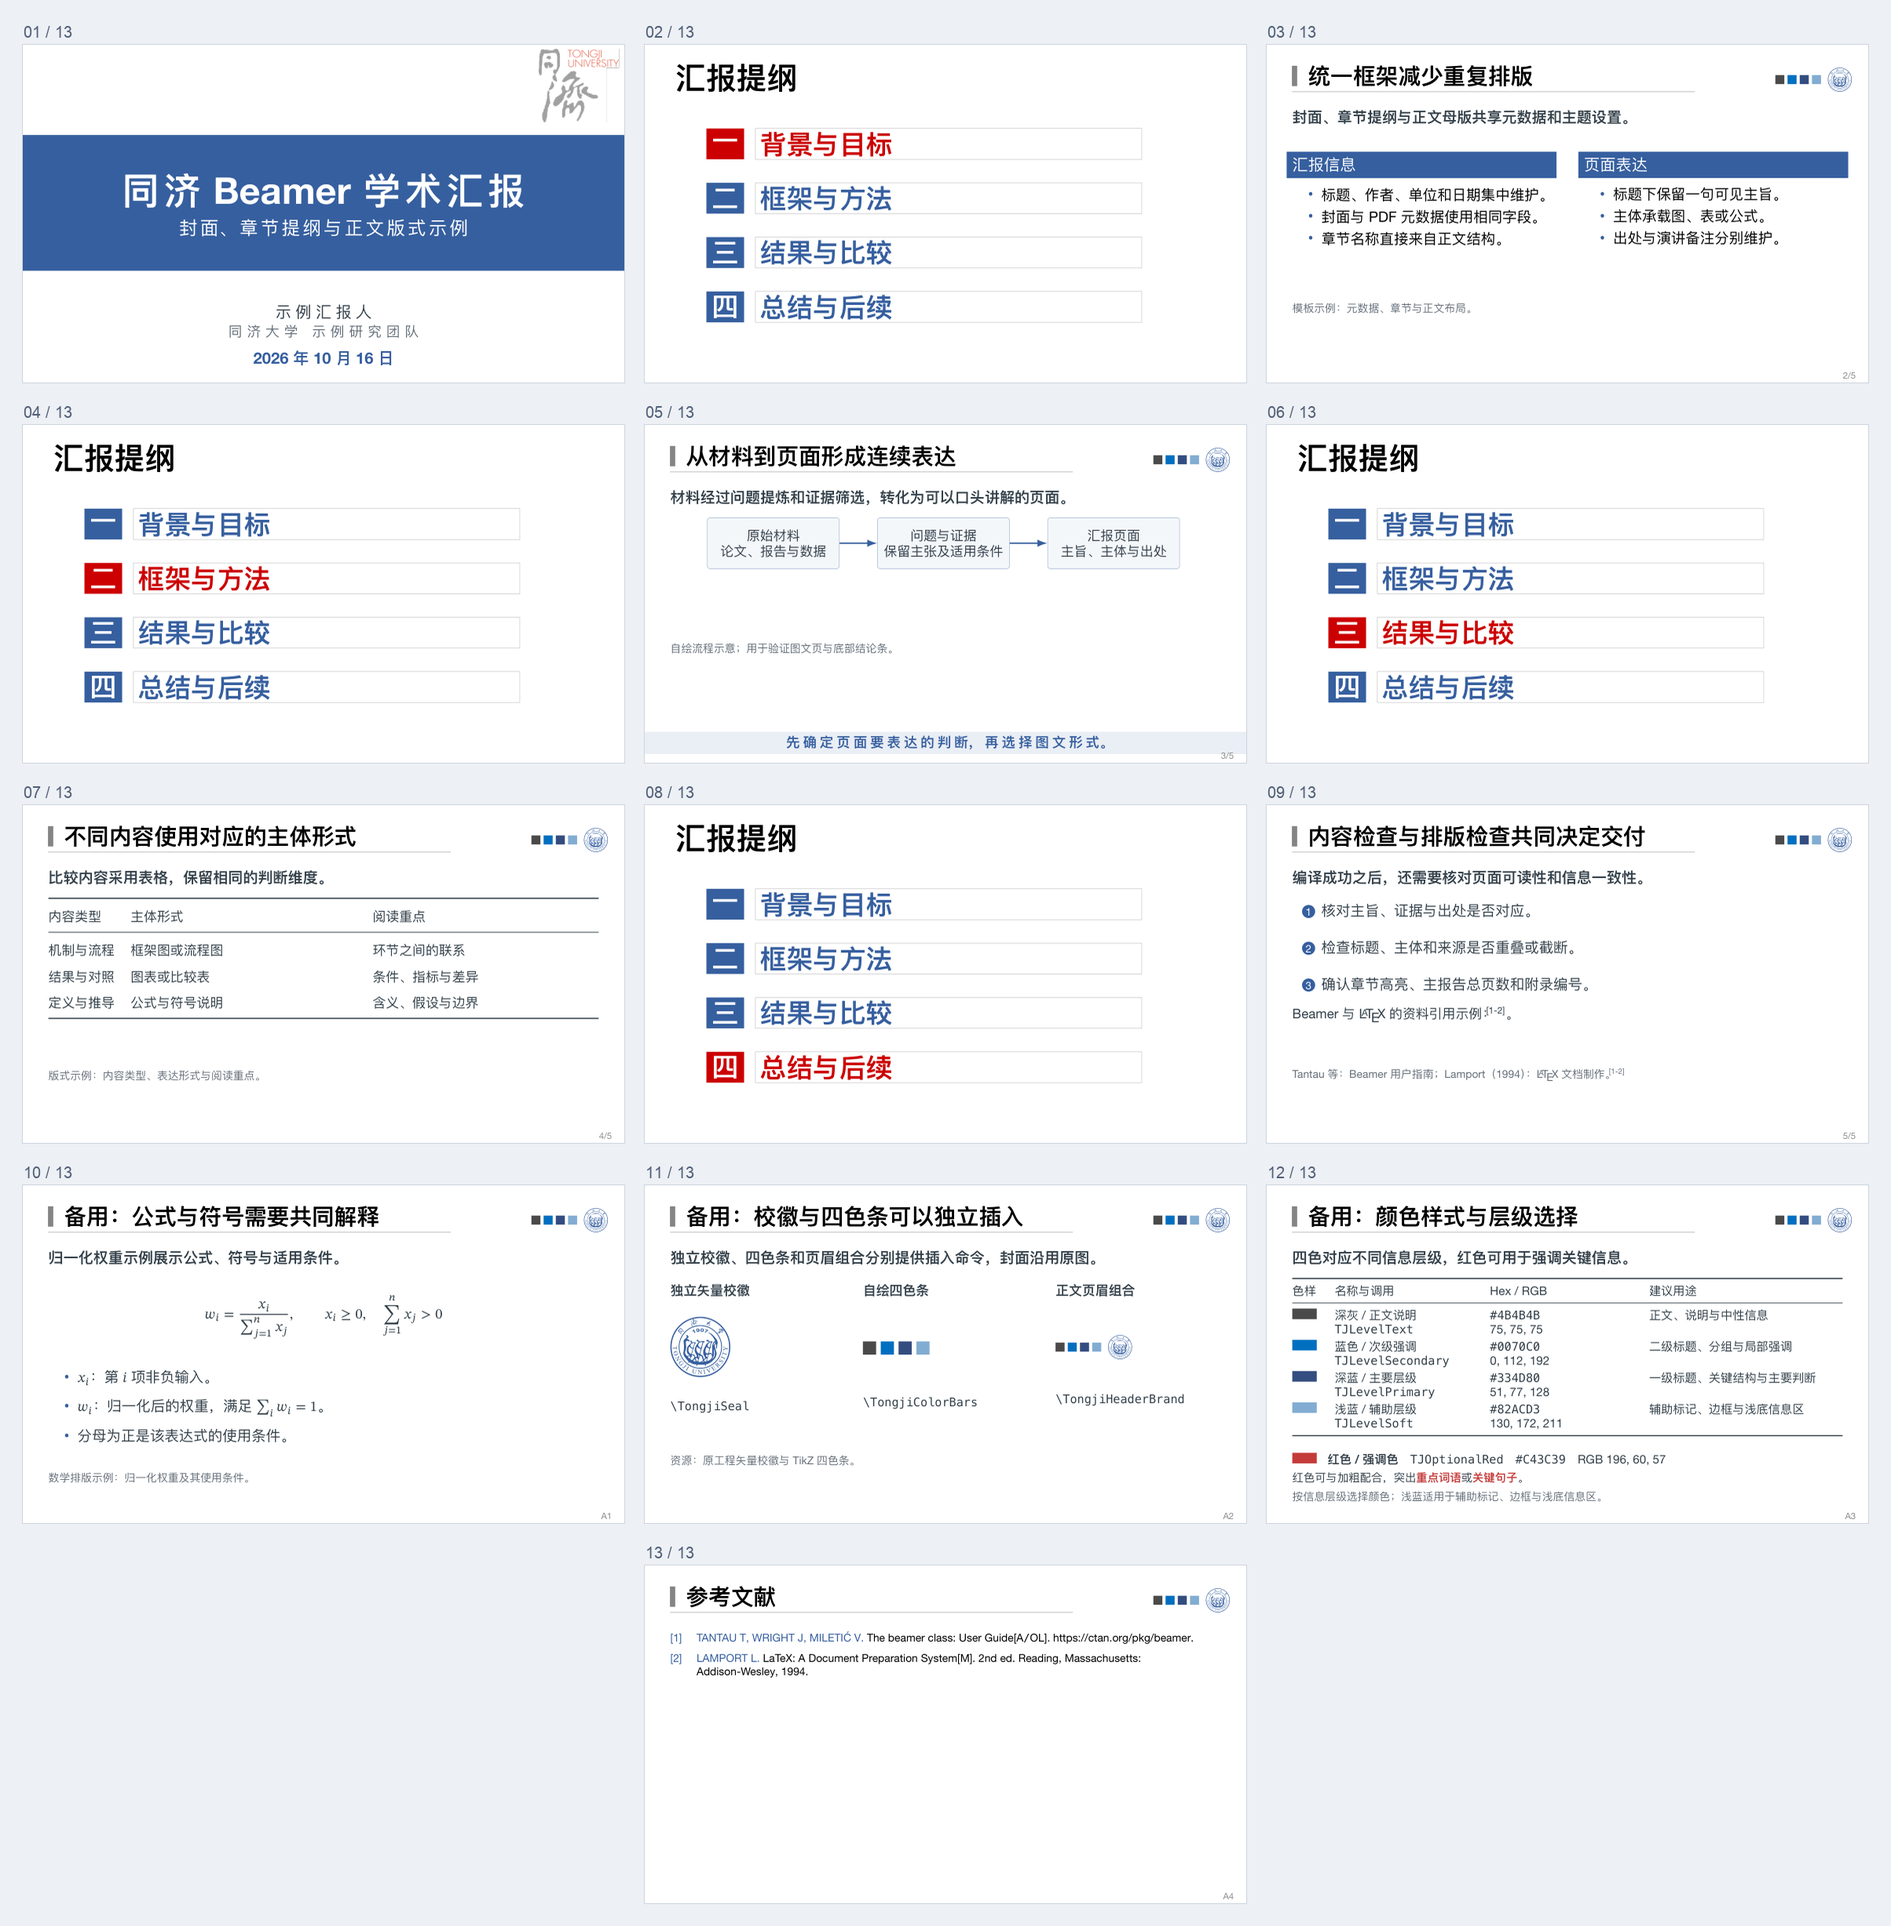
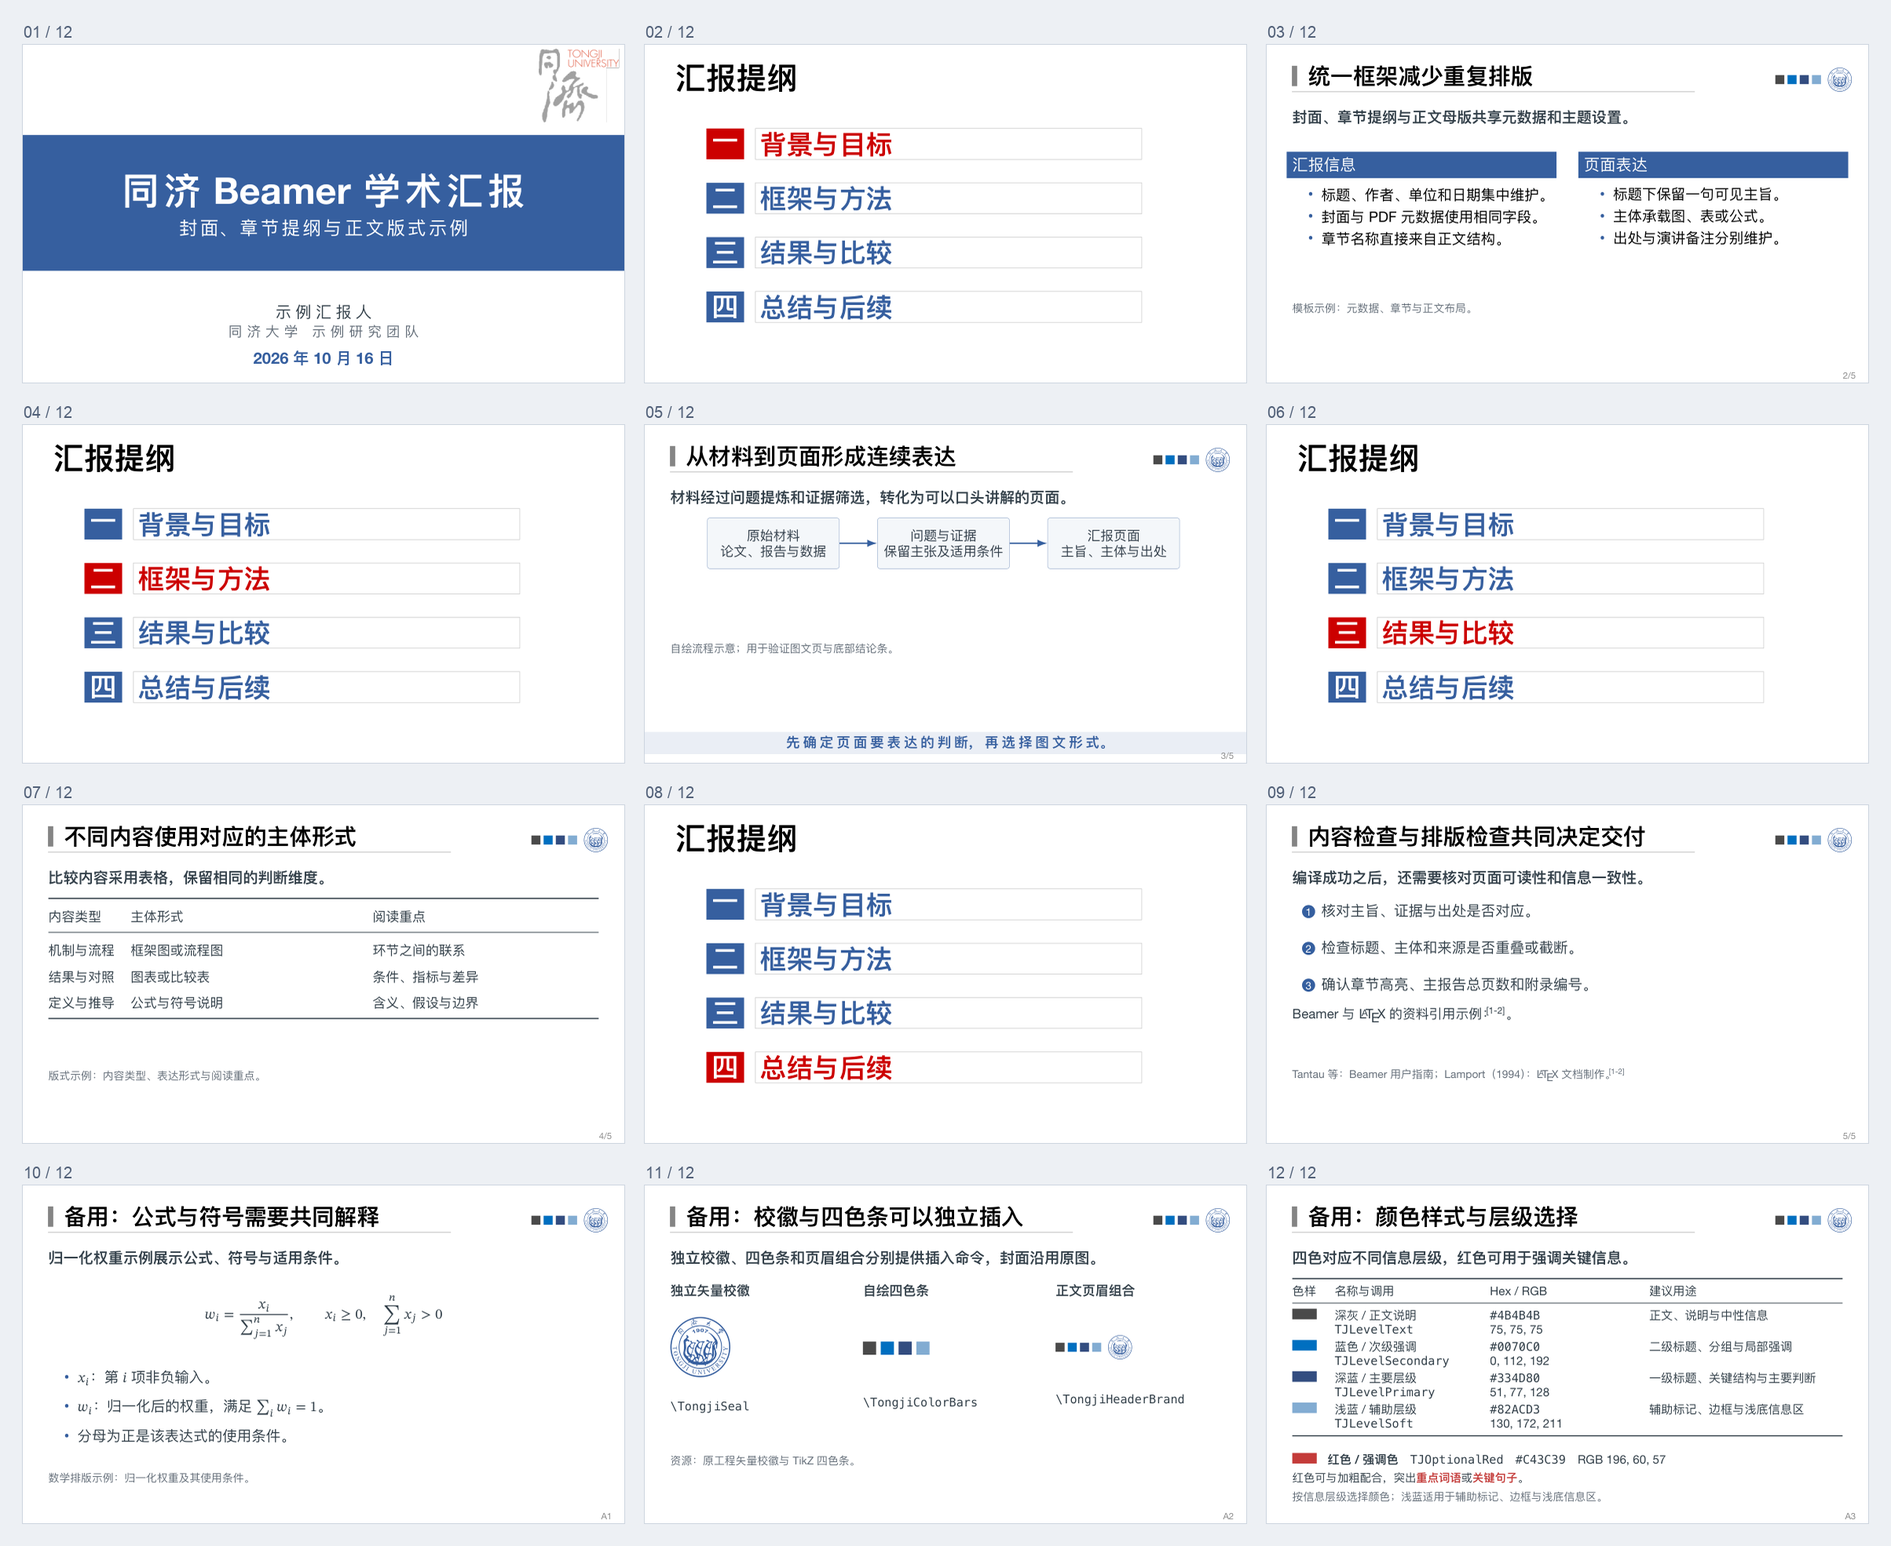
Show twelve template pages in preview grid

diff --git a/README.md b/README.md
@@ -4,11 +4,11 @@
 
 ## 模板效果
 
-以下预览由当前模板编译生成，包含封面、章节高亮提纲、正文、附录和参考文献。
+以下预览由当前模板编译生成，总览选取前12页，包含封面、章节高亮提纲、正文和附录。
 
-### 全部页面总览
+### 12页总览
 
-![同济 Beamer 模板全部13页总览](docs/previews/overview.png)
+![同济 Beamer 模板前12页总览](docs/previews/overview.png)
 
 ### 封面
 
